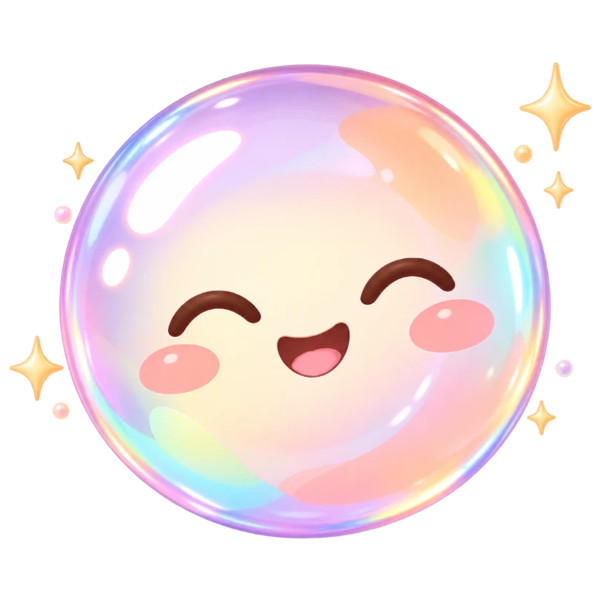
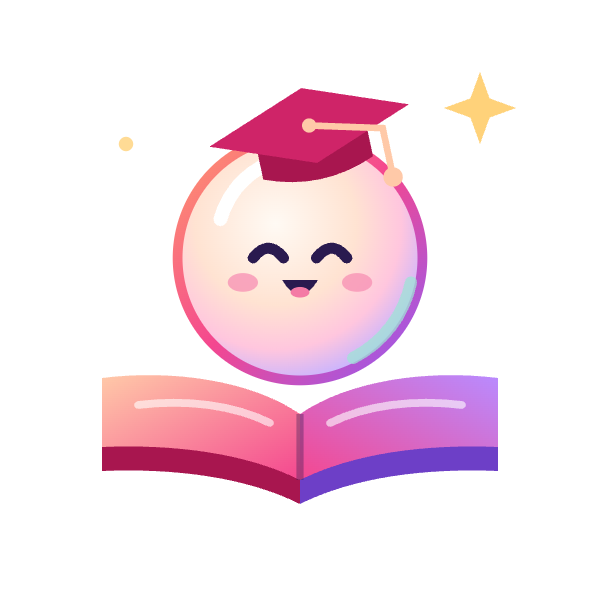
build 54: o ícone novo, a Bolha de capelo saindo do livro aberto
O ícone ainda era o da Obstétrica (uma barriga rosa num círculo). O dono pediu
uma marca que transmitisse o Mãe Esperta; depois de três rodadas de propostas
(o canvas "Logos Mãe Esperta"), escolheu "A 1, livro de capelo": a Bolha, a
guia do app, de capelo, saindo do livro aberto, no céu da noite. Aprender (o
livro e o capelo) com leveza (a Bolha).

- O vetor mora em mobile/assets/marca/ (o ícone, o símbolo sem fundo e o de
  uma cor), e dele saíram icon.png (1024, RGB, sem alfa), as três camadas do
  Android (com a cor de reserva no céu, #1f1650, no lugar do rosa antigo), o
  favicon, a abertura (o mesmo símbolo no céu da noite) e a foto de perfil do
  Instagram. Mudou a marca? Muda o vetor e gera tudo de novo dele.
- O CLAUDE.md, a página da loja e o diário registram a decisão e a pesquisa.

O build Release abriu no simulador antes do envio (o ícone na tela inicial, a
entrada normal), e o build 54 foi enviado ao App Store Connect. Portões verdes:
app (tsc, 716 testes, export iOS) e site (tsc, lint, 7391 testes).

diff --git a/docs/diario/2026-out.md b/docs/diario/2026-out.md
@@ -3809,3 +3809,50 @@ desenvolvimento, porque o Release não tem bancada e não dá para tocar na tela
 sem o painel). `testflight.sh` de primeira: `ARCHIVE SUCCEEDED`, `Upload
 succeeded`, o arquivo registra o build 53. Sem commit: as mudanças continuam
 na árvore até o OK do dono.
+
+## 20/11 (noite) — a marca: a Bolha de capelo saindo do livro
+
+O dono: "como mudei o nome queria criar outra logo que transmita melhor a ideia
+do mãe esperta, pesquise de maneira profunda e me crie 3 logos". O ícone de
+antes ainda era o da Obstétrica (uma barriga rosa num círculo).
+
+**A pesquisa** (as fontes estão na conversa): a Apple pede ícone simples, sem
+texto e em camadas (o Liquid Glass do iOS 26+; o erro mais comum é detalhe
+demais); as marcas de bem-estar que marcam usam uma forma só (o círculo do
+Headspace); o Duolingo mostra o personagem virando a marca; e os apps de
+gravidez no Brasil (Gravidez+, BabyCenter) são quase todos rosa-claro com
+barriga ou bebê. Não há estudo sério comparando personagem e símbolo em apps de
+saúde.
+
+**As rodadas** (todas no canvas "Logos Mãe Esperta"):
+
+1. Três caminhos: a Bolha (o personagem), a lua que embala (uma lua-colo com
+   uma pérola) e o "m" de mãe e bebê (um arco grande e um pequeno). Caíram no
+   caminho um colo que parecia um bonequinho de braços abertos e um "M" de
+   arcos iguais que lembrava o McDonald's.
+2. O dono: "a bolha ficou bom, mas ainda não transmite a ideia do app do
+   bem-estar e da pessoa aprender com ele". Três jeitos: o livro aberto, a
+   estudiosa com anéis de respiração, a de capelo na lótus.
+3. O dono: "o 1 ficou melhor, dá pra colocar o boné nele de aprender, e mais
+   versões, me dê mais 5". Seis versões da Bolha de capelo.
+4. **A escolhida: "A 1, livro de capelo"** — a Bolha de capelo saindo do livro
+   aberto, no céu da noite.
+
+**No app**: o vetor mora em `mobile/assets/marca/` (o ícone, o símbolo sem
+fundo e o de uma cor), e dele saíram `icon.png` (1024, RGB, sem alfa — a
+catraca `abertura.test.ts` cobra), as três camadas do Android (a cor de reserva
+virou o céu, `#1f1650`, no lugar do rosa antigo), o `favicon.png`, a
+`abertura.png` (a splash: o mesmo símbolo no céu da noite, então o ícone e a
+abertura conversam) e uma foto de perfil para o Instagram
+(`marca/instagram-perfil.png`, 1080, o desenho cabe no círculo). O prebuild do
+iPhone já gera o `AppIcon` novo.
+
+Fica para depois, se o dono quiser: o ícone em camadas do Icon Composer
+(Liquid Glass), que se monta no Mac a partir dos três vetores; o PNG de hoje
+funciona em todos os iOS.
+
+**Build 54** (o dono: "Sim, gerar o 54"): o ícone novo. O build Release abriu
+no simulador antes (a tela inicial com a Bolha de capelo e o nome "Mãe
+Esperta" embaixo; a entrada abrindo normal). `testflight.sh` de primeira:
+`ARCHIVE SUCCEEDED`, `Upload succeeded`, o arquivo registra o build 54. Sem
+commit: o ícone e o 54 continuam na árvore até o OK do dono.

diff --git a/docs/loja-textos.md b/docs/loja-textos.md
@@ -66,18 +66,19 @@ Esperta" é de 2014, de outra pessoa, na classe 45, e foi definitivamente
 arquivado: vale pedir o registro nas classes 9 e 41. O Bundle ID não muda (a
 pessoa não o vê, e trocá-lo seria outro app na loja).
 
-| campo                | valor                                                          |
-| -------------------- | -------------------------------------------------------------- |
-| Bundle ID            | `br.com.obstetrica.app`                                        |
-| Nome na loja         | **[NOVO 19/11]** `Mãe Esperta: Bem-estar Materno` (30 de 30)   |
-|                      | antes: `Mãe Esperta: Aula da Gravidez` (29 de 30)              |
-| Nome no iPhone       | Mãe Esperta (o `name` do `app.json`)                           |
-| Categoria primária   | **[NOVO 19/11]** **Saúde e fitness** (antes, Educação)         |
-| Categoria secundária | **[NOVO 19/11]** **Educação** (antes, Saúde e fitness)         |
-| Idioma principal     | Português (Brasil)                                             |
-| Preço                | Grátis, sem compras dentro do app (as sementinhas são do jogo) |
-| URL de suporte       | `https://clovisbacha.github.io/doutorclovis/`                  |
-| URL da privacidade   | `https://clovisbacha.github.io/doutorclovis/privacidade.html`  |
+| campo                | valor                                                             |
+| -------------------- | ----------------------------------------------------------------- |
+| Bundle ID            | `br.com.obstetrica.app`                                           |
+| Nome na loja         | **[NOVO 19/11]** `Mãe Esperta: Bem-estar Materno` (30 de 30)      |
+|                      | antes: `Mãe Esperta: Aula da Gravidez` (29 de 30)                 |
+| Nome no iPhone       | Mãe Esperta (o `name` do `app.json`)                              |
+| Ícone                | A Bolha de capelo saindo do livro aberto (`mobile/assets/marca/`) |
+| Categoria primária   | **[NOVO 19/11]** **Saúde e fitness** (antes, Educação)            |
+| Categoria secundária | **[NOVO 19/11]** **Educação** (antes, Saúde e fitness)            |
+| Idioma principal     | Português (Brasil)                                                |
+| Preço                | Grátis, sem compras dentro do app (as sementinhas são do jogo)    |
+| URL de suporte       | `https://clovisbacha.github.io/doutorclovis/`                     |
+| URL da privacidade   | `https://clovisbacha.github.io/doutorclovis/privacidade.html`     |
 
 **O nome na loja.** "Bem-estar Materno" diz em duas palavras o que o app
 virou, e vale para a gestação e para as 12 semanas depois do parto. A palavra

diff --git a/CLAUDE.md b/CLAUDE.md
@@ -133,6 +133,15 @@ outro app na loja), o `slug` e o `scheme` `obstetrica` (links e login), o
 domínio `obstetrica.com.br` e o site, que não muda mais. Escreva "o app Mãe
 Esperta", nunca "a Mãe Esperta" (o app não é uma mãe).
 
+**O ícone (escolhido pelo dono em 20/11/2026): a Bolha de capelo saindo do
+livro aberto, no céu da noite** — aprender (o livro, o capelo) com leveza (a
+Bolha, a guia). A fonte é vetor, em `mobile/assets/marca/` (`icone.svg`,
+`simbolo.svg` sem fundo, `simbolo-mono.svg` de uma cor); dela saem `icon.png`
+(1024, sem alfa), as três camadas do Android, o `favicon.png`, a `abertura.png`
+(a splash) e `marca/instagram-perfil.png`. Mudou a marca? Mude o vetor e gere
+tudo de novo dele, nunca um PNG à mão. As propostas que não venceram estão no
+canvas "Logos Mãe Esperta" e no diário.
+
 ## O visual é "Amanhecer": vidro, luz e profundidade (pedido do dono, 16/11/2026)
 
 "Está com muita cara de feito no Claude [...] efeito Apple 3D caro [...]
